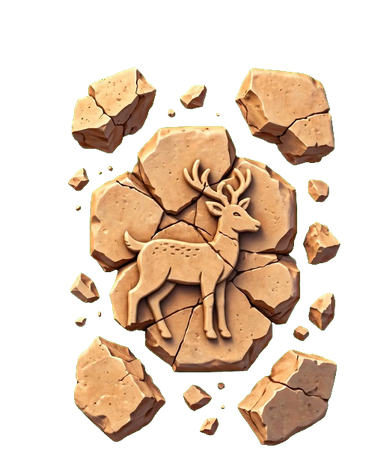
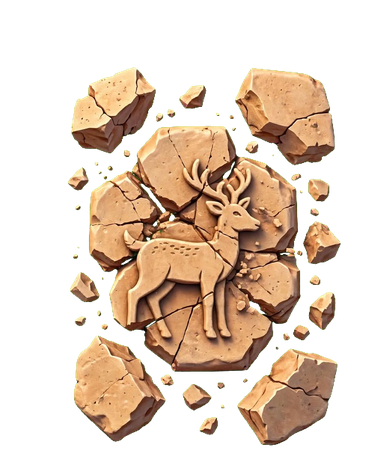
Hall of the Tribes: Naphtali's cracked frame and Zebulun's ship; all twelve break in Glen's art
Claude-Session: https://claude.ai/code/session_018JCxWJ972csv1aoHy7ivxa

diff --git a/game/nobgath.js b/game/nobgath.js
@@ -52,8 +52,8 @@ const R3 = {
   //  one glows and stays safe; a wrong one cracks and drops him back to the door (time, not a heart)
   TRIBES: { AT: 10, STEP: 6, W: 3, SHAKE: 0.35, PROUD: 6, PAD: 80,
     // (Glen's Meta frames, cut_tribe_crumble.py: _c1 cracked, _c2 broken; the rest break in drawn pieces till theirs come)
-    C1: ["asher", "benjamin", "dan", "gad", "issachar", "joseph", "judah", "levi", "reuben", "simeon"],
-    C2: ["asher", "benjamin", "dan", "gad", "issachar", "joseph", "judah", "levi", "naphtali", "reuben", "simeon"],   // (Glen 11-11: SHAKE, held on a wrong one this long, then down with it)
+    C1: ["asher", "benjamin", "dan", "gad", "issachar", "joseph", "judah", "levi", "naphtali", "reuben", "simeon", "zebulun"],
+    C2: ["asher", "benjamin", "dan", "gad", "issachar", "joseph", "judah", "levi", "naphtali", "reuben", "simeon", "zebulun"],   // (Glen 11-11: SHAKE, held on a wrong one this long, then down with it)
     FLOOR: ["judah", "gad", "reuben", "joseph", "levi", "asher", "dan", "zebulun", "benjamin", "simeon", "naphtali", "issachar"] },   // (left to right)
   TABLE_K: 0.6,      // the holy bread table (w3_holy_bread_table2 is 611 x 130 at 1)
 };

diff --git a/tools/tests/w3crumble2.js b/tools/tests/w3crumble2.js
@@ -1,12 +1,12 @@
 // (Glen 11-11) his cracked and broken frames: Gad (tent) cracking, then broken and dropping
 if (location.hash !== "#9-7") throw new Error("not in World 3");
 startSetup = () => {}; setup.active = false;
-kitImg("w3_tribe_pit"); for (const n of ["judah", "gad", "benjamin"]) { kitImg("w3_tribe_" + n + "_c1"); kitImg("w3_tribe_" + n + "_c2"); }
+kitImg("w3_tribe_pit"); for (const n of ["zebulun", "naphtali"]) { kitImg("w3_tribe_" + n + "_c1"); kitImg("w3_tribe_" + n + "_c2"); }
 const tile = n => r3.trial.tiles.find(t => t.name === n);
 testRun([
   { n: 3, fn() { r3.trial.next = 0; r3.trial.tiles.forEach(t => t.lit = false); } },
   { keys: [], n: 40 },
-  { n: 2, fn() { const t = tile("judah"); moveParty((t.x0 + t.x1) / 2, GR * T); snapCamera(); } },
+  { n: 2, fn() { const t = tile("zebulun"); moveParty((t.x0 + t.x1) / 2, GR * T); snapCamera(); } },
   { keys: [], n: 8, snap: true },
   { keys: [], n: 8, snap: true },
   { keys: [], n: 4, snap: true },

diff --git a/SESSION_2026-11-11.md b/SESSION_2026-11-11.md
@@ -90,3 +90,4 @@ level's opening at the end of making Part One ("they turned out great"). Not now
 - Glen's idea, not done: the hall bigger / going up (watchtower or library). Waiting on his art.
 - Glen's Meta crumble sheets (david-sling-2-art/w3/tribes_crumble, 3 frames each) -> tools/cut_tribe_crumble.py -> w3_tribe_<n>.png (whole, replaced) + _c1 (cracked) + _c2 (broken), PAD 16 at 216/tablet. R3.TRIBES.C1/C2 list who has them; Levi now the 12-stone one (9-stone kept as levi_9stones). Judah + Benjamin came as separate frames (judah_1..3.png, stitched to judah.png); PAD now 80 so flying chunks fit. Still to come: zebulun; naphtali's cracked frame (his has a snake on it). Test w3crumble2.js.
 - Glen's pit (tribes_crumble/pit.png) -> tools/cut_tribe_pit.py -> w3_tribe_pit.png (middle only: lips + shaft, opening = a tablet). Drawn under the broken frame; the drawn hole stays as the fallback.
+- 11-12: Naphtali's new sheet (old kept as naphtali_old.png) and Zebulun's: all twelve tablets now crack and break in Glen's art.
